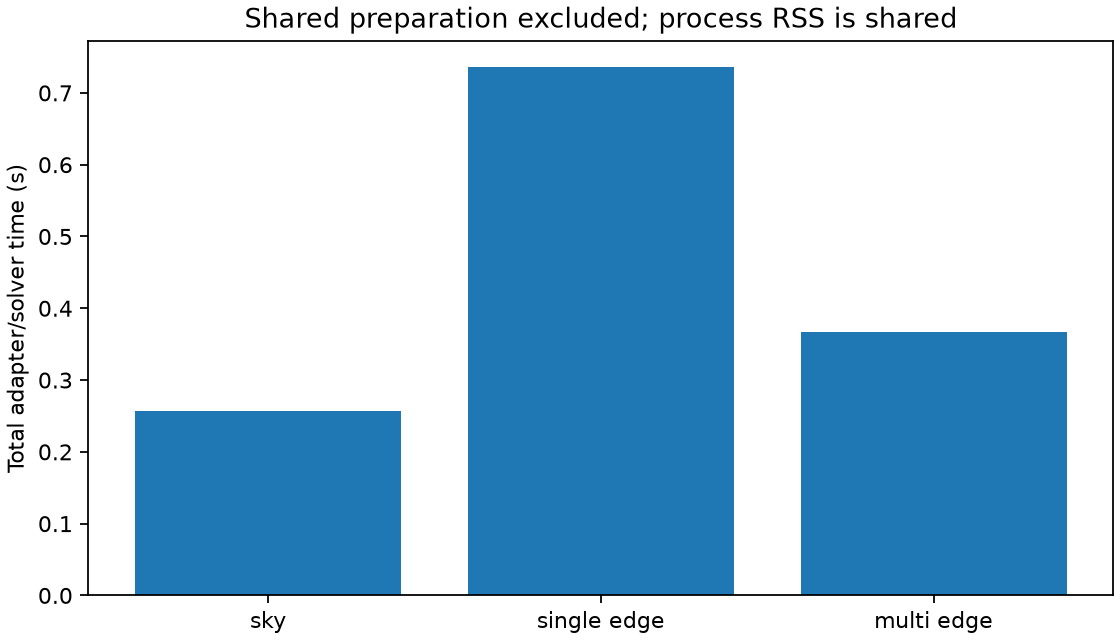
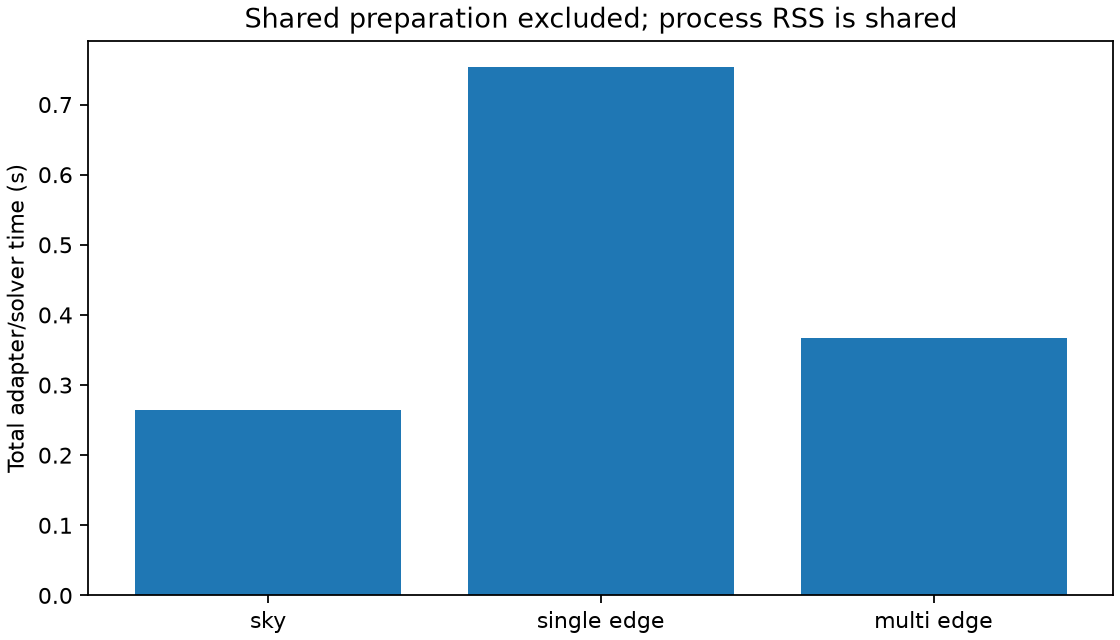
fix: write LF experiment CSVs and refresh verified E2 artifacts

diff --git a/scripts/verify_model_comparison.py b/scripts/verify_model_comparison.py
@@ -28,7 +28,7 @@ def write_csv(path, records):
         if not records:
             return
         fields = list(dict.fromkeys(k for r in records for k in r))
-        writer = csv.DictWriter(stream, fieldnames=fields)
+        writer = csv.DictWriter(stream, fieldnames=fields, lineterminator='\n')
         writer.writeheader()
         writer.writerows({k: json.dumps(v, sort_keys=True) if isinstance(v, (dict, list)) else v for k, v in r.items()} for r in records)
 

diff --git a/reports/m4/e2.md b/reports/m4/e2.md
@@ -1,6 +1,6 @@
 # 三角色地形比较与 E2 实验
 
-2026-10-10，G08 实现与实验完成，等待本轮 Humanize 独立审查。M3 原数值路径保持不变。三类角色为天空轮廓、当前主导单刀刃、独立递归多刀刃；后者只是明确变体的数值参考，不是实测真值，也不保证更准确。
+2026-10-10，G08 实现与实验完成。Round 7 审查确认功能证据与测试，要求修复 CSV 换行导致的提交差异检查失败；修复后已重新归档，等待 Round 8 复审。M3 原数值路径保持不变。三类角色为天空轮廓、当前主导单刀刃、独立递归多刀刃；后者只是明确变体的数值参考，不是实测真值，也不保证更准确。
 
 规范与参数沿用运行前冻结的 [比较契约](../../docs/M4_COMPARISON_CONTRACT.md)和 [配置](../../configs/m4_e2.yaml)，没有放宽容差、改变场景或挑选有利门限。
 
@@ -14,7 +14,7 @@
 
 ## 实际运行与分母
 
-最终归档 `output/m4-e2-final-20261010`。完整记录含 config/environment/sources.zip、原网格及元数据、profiles.jsonl、roles.jsonl、配对差异、分组统计、全部门限、截顶、失败、同模型加密与图。六个真实网格/元数据文件均对 G05 原产物清单验证哈希。小型证据与哈希索引见 [e2.json](e2.json)。
+最新归档 `output/m4-e2-lf-20261010`。完整记录含 config/environment/sources.zip、原网格及元数据、profiles.jsonl、roles.jsonl、配对差异、分组统计、全部门限、截顶、失败、同模型加密与图。六个真实网格/元数据文件均对 G05 原产物清单验证哈希。小型证据与哈希索引见 [e2.json](e2.json)。
 
 | 范围 | 配对组数 |
 |---|---:|
@@ -55,7 +55,7 @@
 
 ## 成本与复现
 
-本机最终运行约 8.81 s，进程峰值 RSS 415552 KiB。共用输入/候选准备约 1.647 s；角色适配/求解累计：天空 0.257 s、单边 0.736 s、多边 0.367 s。总运行还包括源码/环境归档、统计与绘图，RSS 属于整个进程；不能由此宣称多刃内核普遍更快，M3 适配器还重复构建其原生剖面以保持原接口。
+本机最新运行约 8.94 s，进程峰值 RSS 416368 KiB。共用输入/候选准备约 1.649 s；角色适配/求解累计：天空 0.265 s、单边 0.753 s、多边 0.367 s。总运行还包括源码/环境归档、统计与绘图，RSS 属于整个进程；不能由此宣称多刃内核普遍更快，M3 适配器还重复构建其原生剖面以保持原接口。
 
 ![角色累计耗时](role-cost.png)
 
@@ -68,6 +68,8 @@ bash scripts/python_geo.sh -m pytest tests -q
 
 输出目录必须不存在。报告依赖为可选 matplotlib；本次保留 NumPy 1.26.4，matplotlib 3.11.2、contourpy 1.3.3，全部实际版本记录于 environment.json。第一次安装曾因 SOCKS 代理支持缺失失败；清理本安装进程代理后成功，并恢复被传递依赖升级的原 NumPy 基线。不是新增 RT 依赖。
 
-最终测试 372 passed（9.36 s）；全部产物哈希及 1189 个配对重新读取验证。初次运行 output/m4-e2-20261010 保留，最终运行补上功率分组与参考等级再校验；数值参数未改。未生成正式 reference 数据集、未改 demo。
+最新测试 372 passed（9.26 s）；37 个产物哈希及 1189 个配对重新读取验证。初次运行 output/m4-e2-20261010 和 Round 7 的 output/m4-e2-final-20261010 均保留。Round 8 将 CSV writer 固定为 LF，使用原冻结配置重新运行，3567 条记录去除资源与源码版本字段后逐对象完全相等，分组/差异/门限/失败/加密表也完全一致。
+
+Round 7 的“git diff check passed”记录不充分：当时工作区检查没有覆盖未跟踪 CSV，提交后检查发现 CRLF 被 Git 判为行末空白。Round 8 检查完整暂存差异及提交后 `git diff --check 9654285..HEAD`，并验证所有新归档 CSV 不含 CR。数值参数未改，旧证据未覆盖；未生成正式 reference 数据集、未改 demo。
 
 G08 等待正式审查；后续仍是 G09 方向表/缓存、G10 E1、G11–G12 条件事件/E3、G13–G14 候选决策/E4、G15–G16 全流程复现和最终验收。E2 完成不等于 AC-11 或总计划完成。
